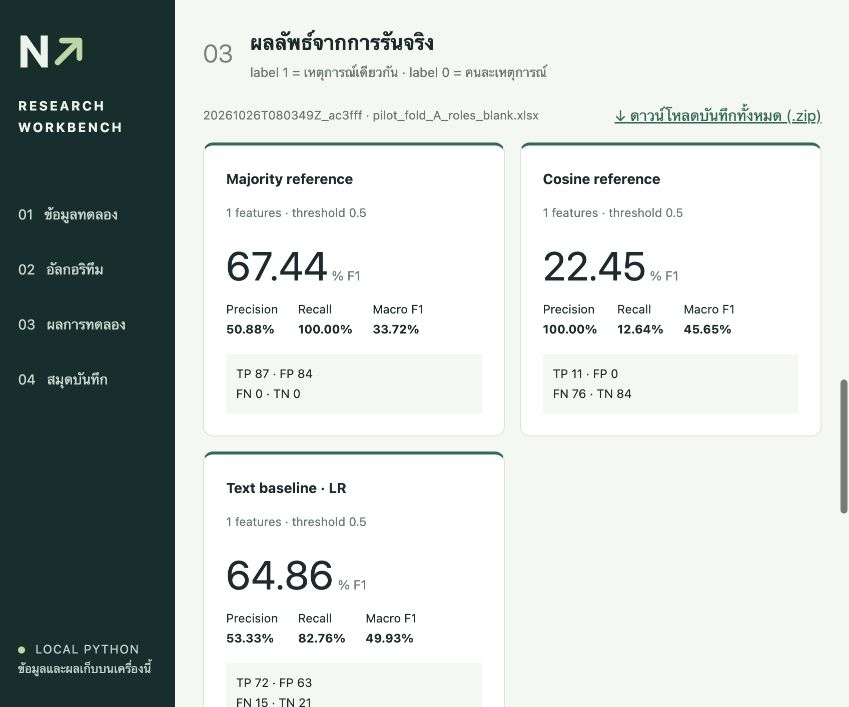
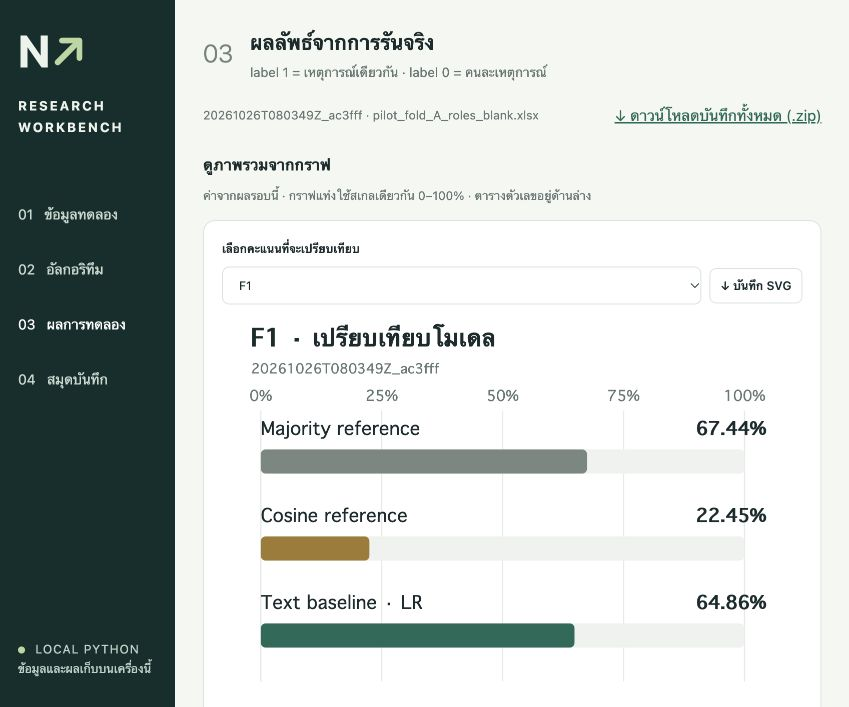
test: verify chart reporting and document SVG exports

diff --git a/README.md b/README.md
@@ -53,6 +53,7 @@ py -3.12 -m venv .venv
 - แก้ Python ในเว็บ นำเข้าไฟล์ `.py` หรือดาวน์โหลดโค้ดออกไป
 - รัน Majority reference, Cosine reference, Text baseline และ Text + roles เมื่อมีข้อมูลบทบาท
 - ดู Precision, Recall, F1, Macro F1 และ TP/FP/FN/TN พร้อมคู่ที่ทำนายผิด
+- ดูกราฟแท่งเปรียบเทียบคะแนนและ confusion matrix พร้อมตัวเลขจากผลรันจริง เลือกคะแนน/โมเดลและดาวน์โหลด SVG ไปใช้ในรายงานได้
 - เก็บข้อมูล โค้ด การตั้งค่า seed พารามิเตอร์ที่เรียนรู้ เวอร์ชัน dependencies และผลทำนายแยกต่อรอบ
 - ดาวน์โหลดหลักฐานของแต่ละรอบเป็น ZIP
 
@@ -109,11 +110,12 @@ Excel เริ่มต้นอยู่ที่ [data/pilot_fold_A_roles_bla
 .venv/bin/python run_experiment.py --dataset small_A
 .venv/bin/python run_experiment.py --dataset small_B
 .venv/bin/python -m unittest test_workbench -v
+node --test test_charts.cjs
 ```
 
 ใช้ Python executable แบบ Windows ตามหัวข้อติดตั้งได้เช่นกัน ผลแต่ละรอบอยู่ใน `runs/<run_id>/` รวม `manifest.json`, `algorithm.py`, `dataset.csv`, `metrics.json`, `predictions.csv`, `errors.csv` และ `report.md`
 
-GitHub Actions จะตรวจ Python syntax, JavaScript syntax และ unit tests บน Ubuntu/Python 3.12 เมื่อ push หรือเปิด PR โดยไม่ทำการทดลอง full หรือส่งข้อมูลไปบริการโมเดลภายนอก
+GitHub Actions จะตรวจ Python syntax, JavaScript syntax, unit tests และความถูกต้องของกราฟเทียบกับผลที่บันทึกไว้ บน Ubuntu/Python 3.12 เมื่อ push หรือเปิด PR โดยไม่ทำการทดลอง full หรือส่งข้อมูลไปบริการโมเดลภายนอก ใช้ Node.js 18 ขึ้นไปเพื่อรันการทดสอบกราฟ ส่วนการเปิดเว็บยังใช้ Python ตามเดิม
 
 ## โครงสร้างหลัก
 

diff --git a/README_TH.md b/README_TH.md
@@ -21,6 +21,17 @@
 5. ดาวน์โหลด ZIP หรือดูโฟลเดอร์ `runs/<run_id>/`
 6. Pilot B สลับทิศ train/test เป็นการตรวจ pipeline อีกทิศ ไม่ใช่ test ใหม่อิสระ หากใช้ผลสองทิศปรับโมเดลแล้ว ต้องหาข้อมูล held-out ใหม่สำหรับข้อสรุปสุดท้าย
 
+## ดูผลเป็นกราฟและตัวเลข
+
+เมื่อรันสำเร็จ หรือกด **เปิดผล** ในสมุดบันทึก หน้า 03 จะแสดงกราฟจาก `metrics.json` ของรอบนั้น:
+
+- **กราฟแท่ง:** เลือก F1, Precision, Recall หรือ Macro F1 เพื่อเทียบโมเดลบนสเกลคงที่ 0–100% มีค่าตัวเลขกำกับทุกแท่ง
+- **Confusion matrix:** เลือกโมเดลเพื่อดู TN/FP/FN/TP เป็นจำนวนคู่ แถวคือป้ายจริง คอลัมน์คือคำทำนาย สีเขียวหมายถึงถูก สีส้มหมายถึงผิด สีไม่ได้แสดงความมากน้อย
+- **ตัวเลขเดิม:** การ์ดคะแนนยังอยู่ใต้กราฟ และยังดาวน์โหลด ZIP ผลทดลองได้ตามเดิม
+- **บันทึก SVG:** ดาวน์โหลดกราฟที่กำลังเลือก พร้อม run ID ไปใช้ในรายงานได้ เป็นไฟล์ภาพเวกเตอร์แยกจาก ZIP
+
+กราฟแต่ละหน้ามาจากรอบเดียวกัน ไม่รวมผลต่างชุดทดลอง หากรอบใดไม่ได้รัน Text + roles จะไม่สร้างแท่งคะแนนสมมติให้ การเพิ่มกราฟไม่ได้เปลี่ยนโมเดล คะแนน หรือเป็นหลักฐานว่า improvement สำเร็จ
+
 ## โมเดลที่มี
 
 - Majority reference: ทาย class ที่พบบ่อยใน TRAIN ทุกแถว เพื่อดูว่าการเรียนรู้ดีกว่าวิธีง่ายที่สุดหรือไม่

diff --git a/CHANGELOG.md b/CHANGELOG.md
@@ -1,5 +1,12 @@
 # Changelog
 
+## 2026-10-26 — Visual experiment results
+
+- Add selectable score bar charts and confusion matrices alongside numeric results.
+- Read saved run metrics, keep a fixed 0–100% score scale, and distinguish missing results from zero.
+- Export standalone SVG charts with the run ID; works with existing run history without rerunning models.
+- Test chart values, confusion-matrix orientation, missing data and escaped custom model names in CI.
+
 ## 2026-10-26 — Initial workbench and team documentation
 
 - Local Thai web workbench for Excel/CSV pair experiments and editable Python.
